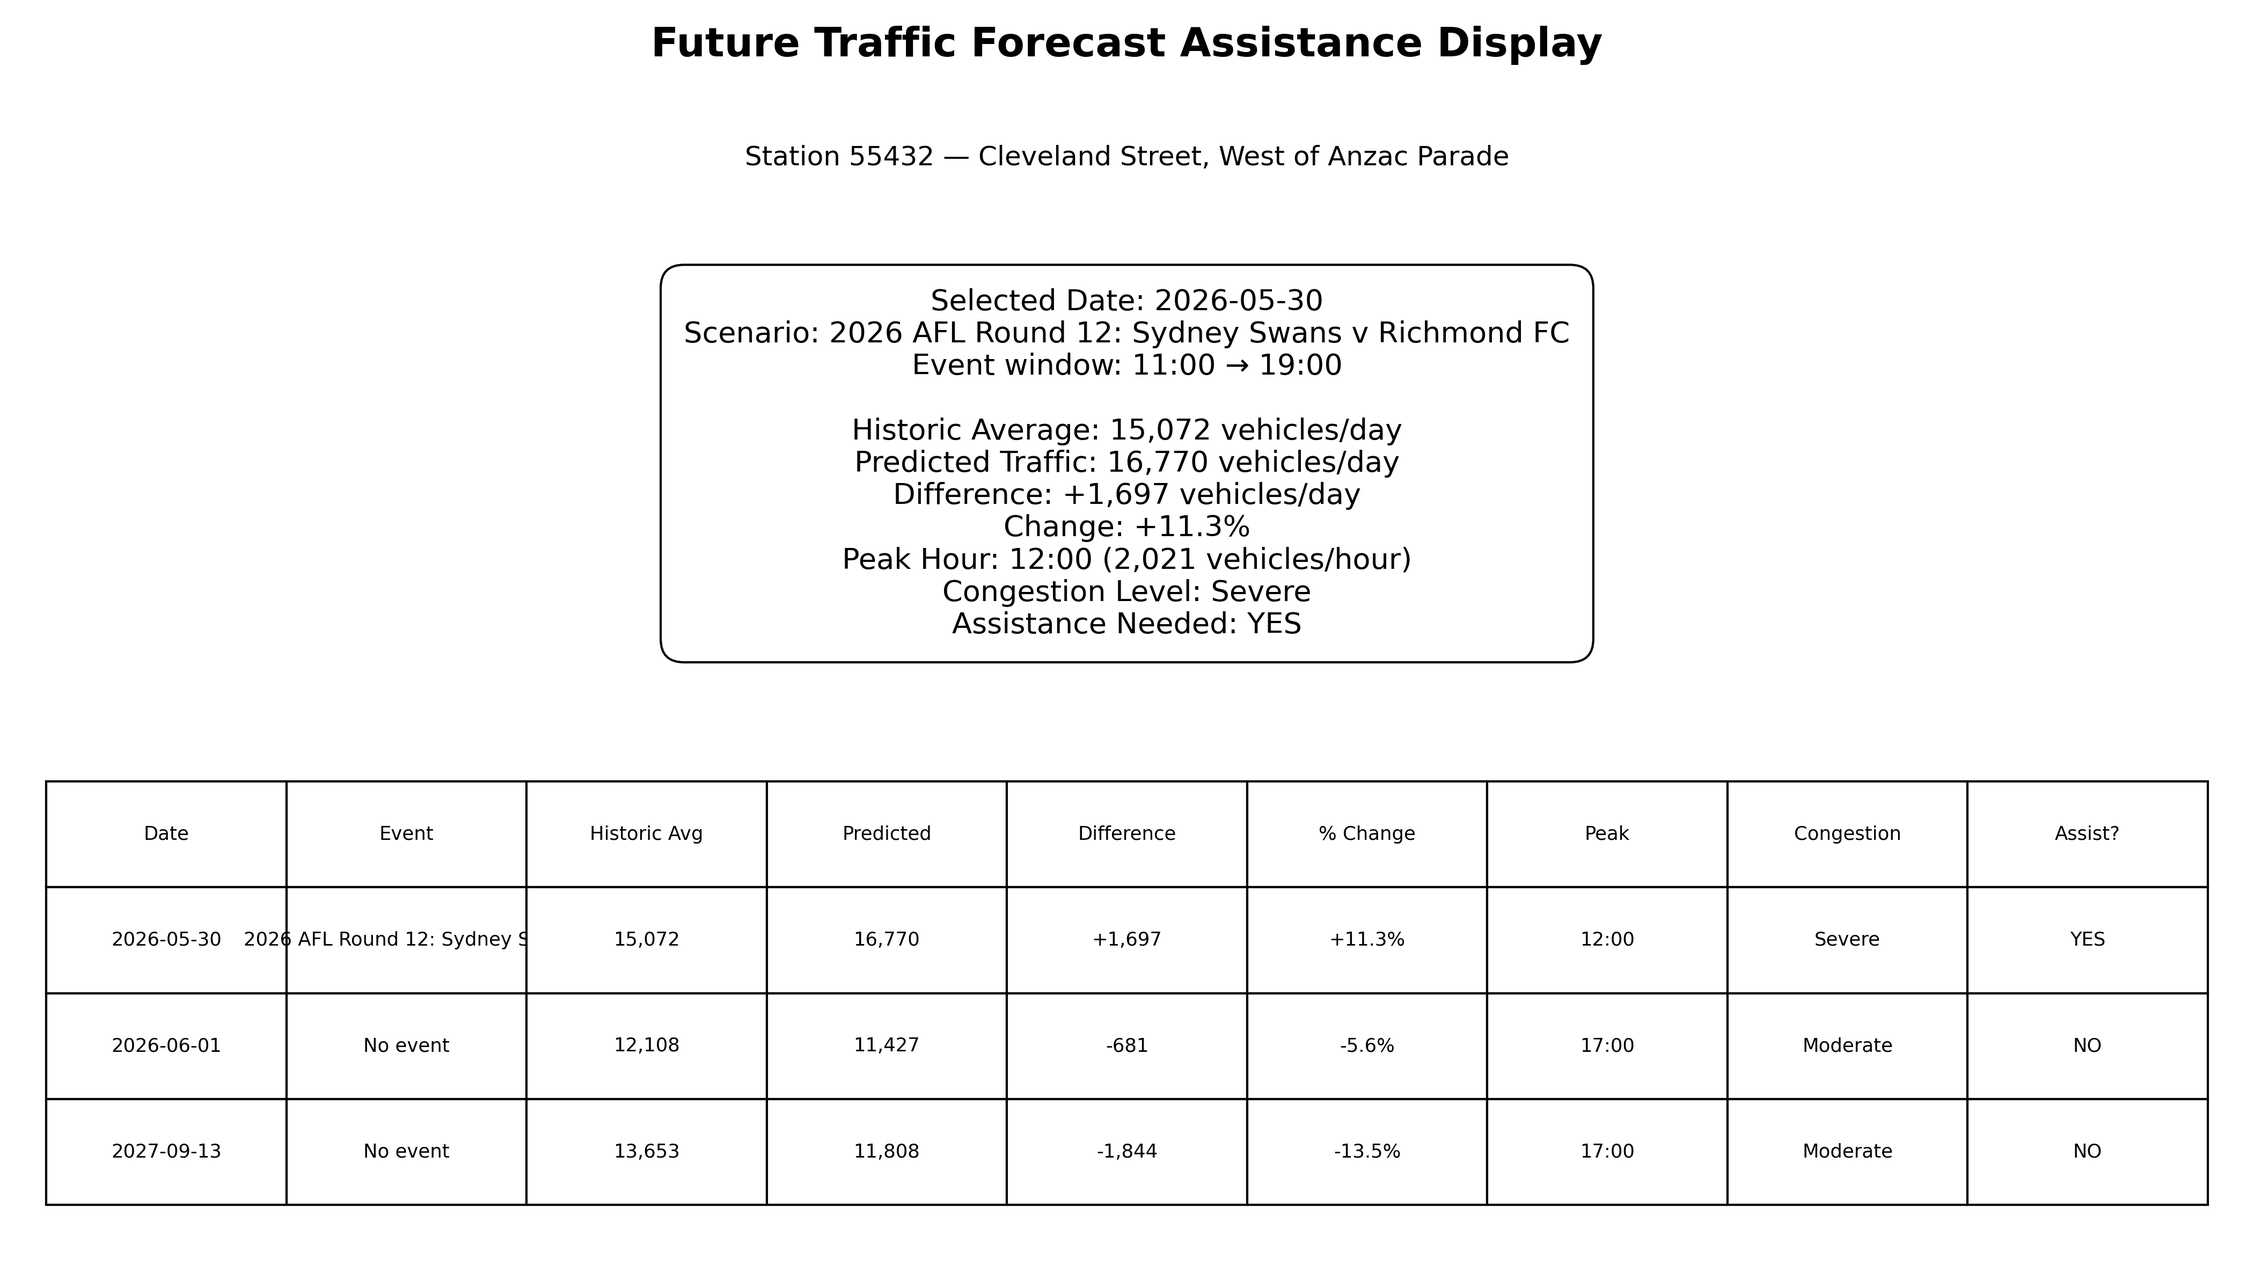
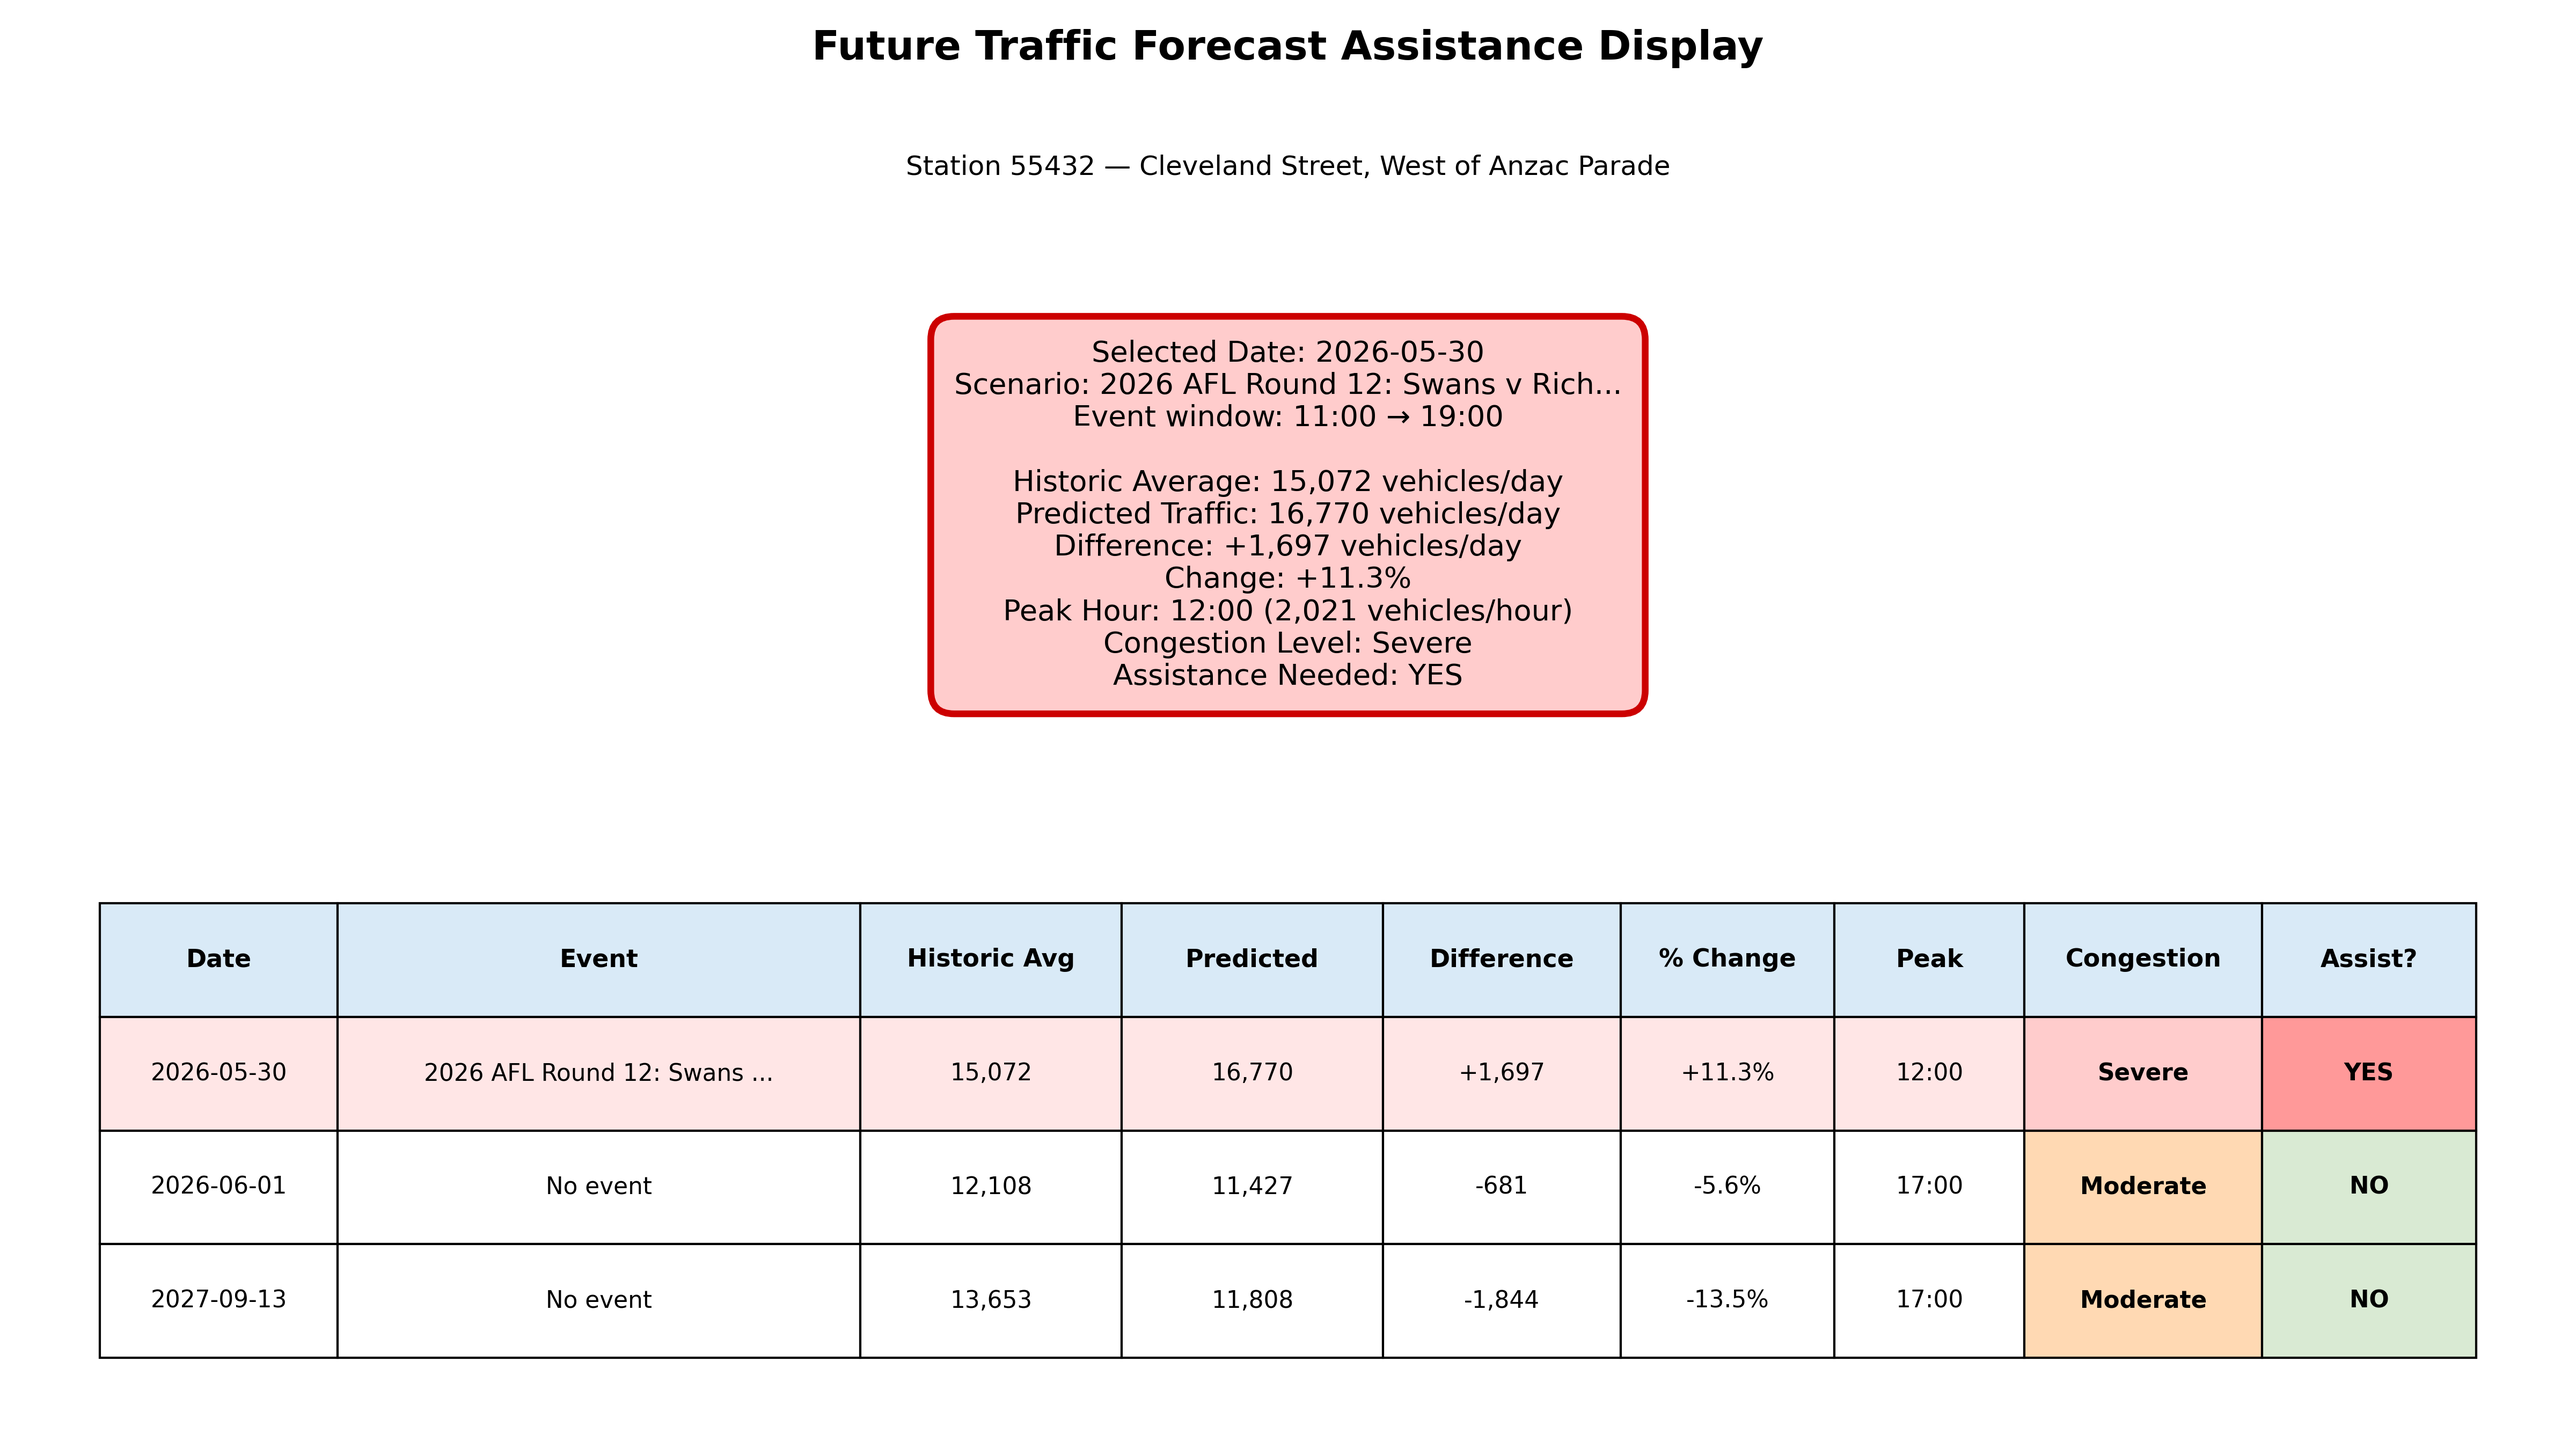
im the king

diff --git a/angus/display_results2.py b/angus/display_results2.py
@@ -300,6 +300,51 @@ def daily_congestion_level(total_vehicles):
         return "High"
     return "Severe"
 
+def shorten_event_name(name, max_len=34):
+    """
+    Shortens long event names so they fit inside the summary box and table.
+    """
+    name = str(name)
+
+    replacements = {
+        "Sydney Swans": "Swans",
+        "Richmond Tigers": "Richmond",
+        "Greater Western Sydney Giants": "GWS",
+        "Melbourne Victory": "Melb Victory",
+        "Football Club": "FC",
+        "Australian Football League": "AFL",
+        "National Rugby League": "NRL",
+    }
+
+    for old, new in replacements.items():
+        name = name.replace(old, new)
+
+    if len(name) > max_len:
+        return name[:max_len - 3] + "..."
+
+    return name
+
+
+def congestion_colour(level):
+    """
+    Returns background colour based on congestion level.
+    """
+    level = str(level).lower()
+
+    if level == "severe":
+        return "#ffcccc"   # light red
+    if level == "high":
+        return "#fff2cc"   # light yellow
+    if level == "moderate":
+        return "#ffd9b3"   # light orange
+    return "#d9ead3"       # light green
+
+
+def assistance_colour(assistance_needed):
+    """
+    Highlights assistance-needed cases.
+    """
+    return "#ff9999" if assistance_needed else "#d9ead3"
 
 def hourly_congestion_level(hourly_vehicles):
     if hourly_vehicles < 300:
@@ -504,7 +549,7 @@ def add_future_scenario(date_str, event_name="No event", has_event=0, max_attend
         event_duration=event_duration,
         venue_type=venue_type,
     )
-    result["event_name"] = event_name
+    result["event_name"] = shorten_event_name(event_name)
     result["has_event"] = has_event
     result["max_attendance"] = max_attendance
     result["event_hour"] = event_hour
@@ -606,7 +651,7 @@ print(
 # Matplotlib assistance display
 # ============================================================
 
-fig, ax = plt.subplots(figsize=(14, 8))
+fig, ax = plt.subplots(figsize=(16, 9))
 ax.axis("off")
 
 fig.suptitle(
@@ -640,6 +685,10 @@ summary_text = (
     f"Assistance Needed: {assistance_text}"
 )
 
+summary_face_colour = congestion_colour(latest["congestion"])
+summary_edge_colour = "#cc0000" if latest["assistance_needed"] else "black"
+summary_linewidth = 3 if latest["assistance_needed"] else 1.5
+
 ax.text(
     0.5,
     0.68,
@@ -647,7 +696,12 @@ ax.text(
     ha="center",
     va="center",
     fontsize=13,
-    bbox=dict(boxstyle="round,pad=0.8", edgecolor="black", facecolor="white"),
+    bbox=dict(
+        boxstyle="round,pad=0.8",
+        edgecolor=summary_edge_colour,
+        facecolor=summary_face_colour,
+        linewidth=summary_linewidth,
+    ),
 )
 
 table_data = []
@@ -656,7 +710,7 @@ for _, row in display_df.iterrows():
     table_data.append(
         [
             row["date_display"],
-            str(row["event_name"])[:30],
+            shorten_event_name(row["event_name"], max_len=28),
             f"{row['historic_average']:,.0f}",
             f"{row['predicted_traffic']:,.0f}",
             f"{row['difference']:+,.0f}",
@@ -685,12 +739,69 @@ table = ax.table(
     loc="lower center",
     cellLoc="center",
     colLoc="center",
-    bbox=[0.01, 0.05, 0.98, 0.36],
+    bbox=[0.03, 0.05, 0.94, 0.34],
 )
 
 table.auto_set_font_size(False)
-table.set_fontsize(8.5)
-table.scale(1, 1.5)
+table.set_fontsize(11)
+table.scale(1, 2.0)
+
+# Make important columns wider and less important columns narrower
+column_widths = {
+    0: 0.10,  # Date
+    1: 0.22,  # Event
+    2: 0.11,  # Historic Avg
+    3: 0.11,  # Predicted
+    4: 0.10,  # Difference
+    5: 0.09,  # % Change
+    6: 0.08,  # Peak
+    7: 0.10,  # Congestion
+    8: 0.09,  # Assist?
+}
+
+for (row, col), cell in table.get_celld().items():
+    if col in column_widths:
+        cell.set_width(column_widths[col])
+
+    # Bigger, bolder header
+    if row == 0:
+        cell.set_text_props(weight="bold", fontsize=11)
+    else:
+        cell.set_text_props(fontsize=10.5)
+
+# ------------------------------------------------------------
+# Colour table header
+# ------------------------------------------------------------
+
+for col_idx in range(len(column_labels)):
+    header_cell = table[(0, col_idx)]
+    header_cell.set_facecolor("#d9eaf7")
+    header_cell.set_text_props(weight="bold")
+
+
+# ------------------------------------------------------------
+# Colour rows based on congestion and assistance needed
+# ------------------------------------------------------------
+
+congestion_col = column_labels.index("Congestion")
+assist_col = column_labels.index("Assist?")
+
+for row_idx, (_, row) in enumerate(display_df.iterrows(), start=1):
+    congestion = row["congestion"]
+    assistance_needed = row["assistance_needed"]
+
+    # Lightly highlight whole row if assistance is needed
+    if assistance_needed:
+        for col_idx in range(len(column_labels)):
+            table[(row_idx, col_idx)].set_facecolor("#ffe6e6")
+
+    # Stronger colour for congestion cell
+    table[(row_idx, congestion_col)].set_facecolor(congestion_colour(congestion))
+    table[(row_idx, congestion_col)].set_text_props(weight="bold")
+
+    # Stronger colour for assistance cell
+    table[(row_idx, assist_col)].set_facecolor(assistance_colour(assistance_needed))
+    table[(row_idx, assist_col)].set_text_props(weight="bold")
 
 plt.tight_layout()
 
